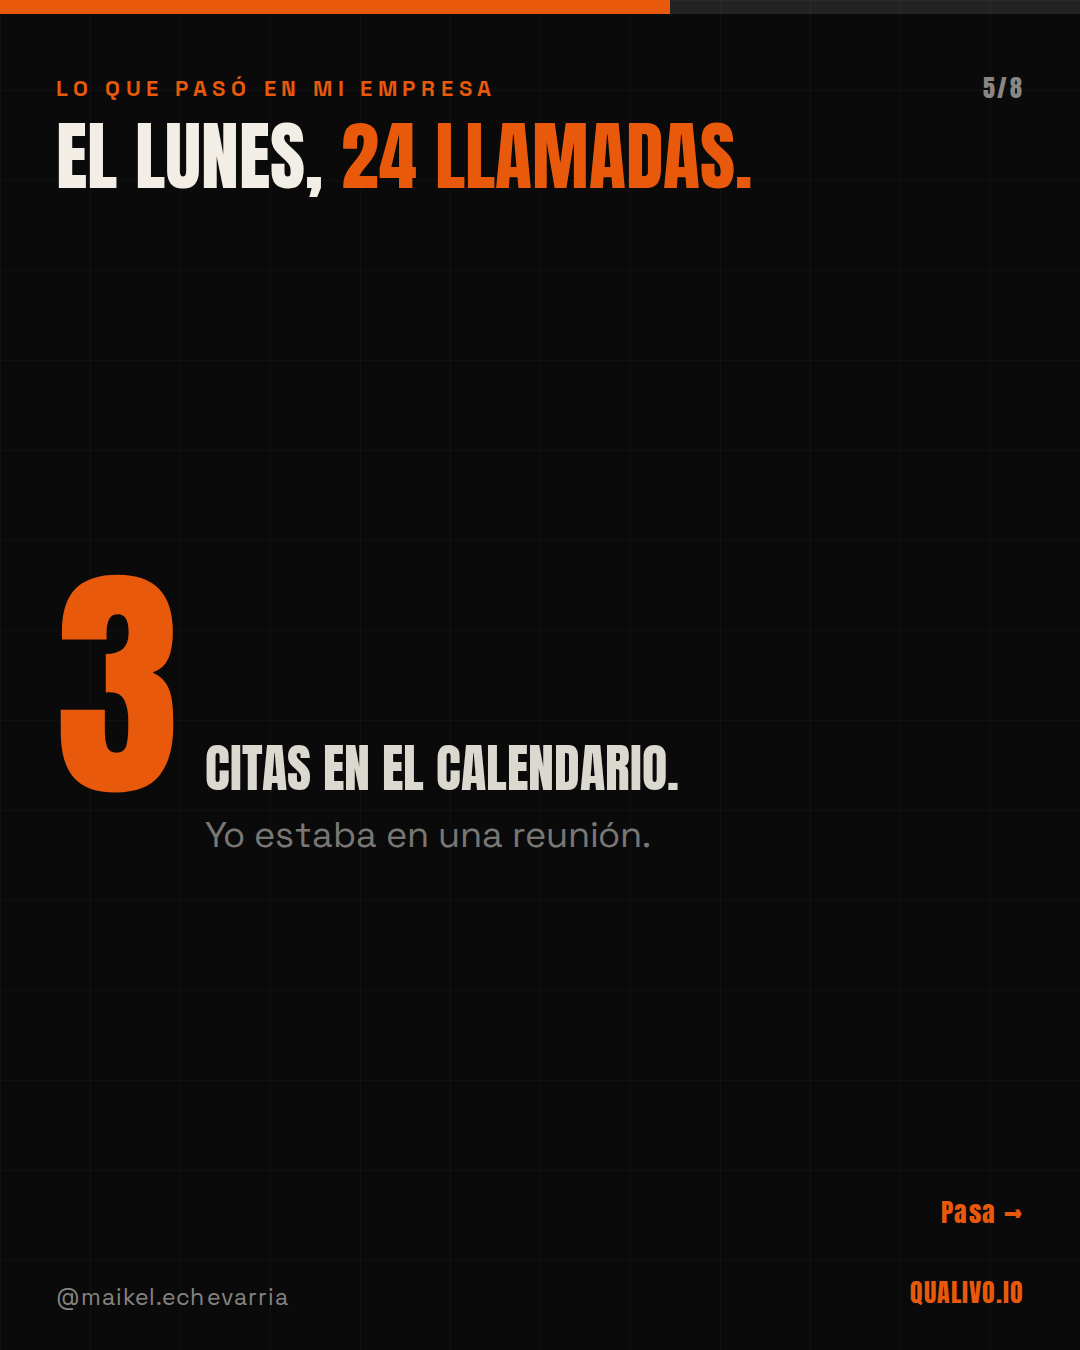
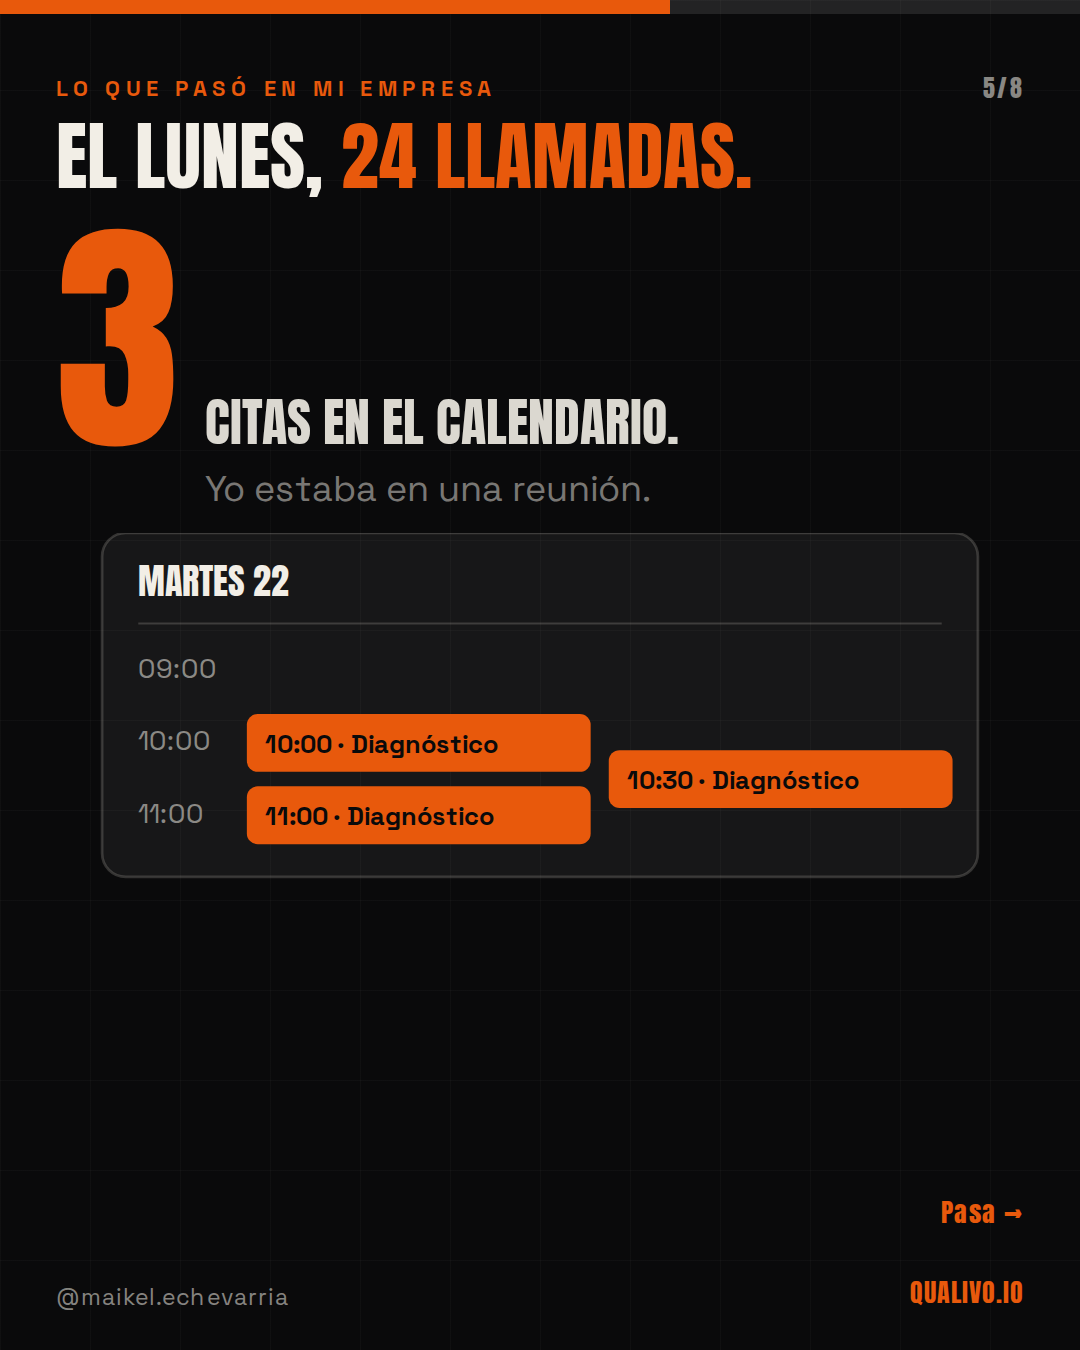
Carrusel del contacto: imagen en las ocho láminas (calendario, iconos, marcador de guardar)
Claude-Session: https://claude.ai/code/session_015zPzMSu62cfqSPYhENKK62

Changed region(s): [[0.0306, 0.4044, 0.8861, 0.6533], [0.0306, 0.1556, 0.6417, 0.3733], [0.0917, 0.6222, 0.1222, 0.6533]]

diff --git a/content/carruseles/2026-09-22-contacto-7x/lamina-5.html b/content/carruseles/2026-09-22-contacto-7x/lamina-5.html
@@ -35,4 +35,12 @@ body{padding:0;background:#000}
 .resumen b{font-family:Anton;font-size:60px;color:#E8590C;line-height:.9}
 </style></head><body><div class="page tinta"><div class="prog"><i style="width:62%"></i></div><div class="n">5/8</div><div class="in"><div class="kick">Lo que pasó en mi empresa</div>
   <div class="h">El lunes, <span class="nar">24 llamadas.</span></div>
-  <div class="vis" style="display:flex;align-items:baseline;gap:30px"><div class="big">3</div><div class="t" style="font-size:52px;line-height:1.1;font-family:Anton;text-transform:uppercase">citas en el calendario.<br><span style="opacity:.55;font-size:36px;font-family:SG;text-transform:none;font-weight:400">Yo estaba en una reunión.</span></div></div></div><div class="next">Pasa →</div><div class="firma">@maikel.echevarria</div><div class="web">QUALIVO.IO</div></div></body></html>
+  <div class="vis" style="display:flex;align-items:baseline;gap:30px;margin-top:30px;margin-bottom:0"><div class="big">3</div><div class="t" style="font-size:52px;line-height:1.1;font-family:Anton;text-transform:uppercase">citas en el calendario.<br><span style="opacity:.55;font-size:36px;font-family:SG;text-transform:none;font-weight:400">Yo estaba en una reunión.</span></div></div><div style="margin-top:24px"><svg width="968" height="380" viewBox="0 0 968 420" style="display:block">
+<rect x="0" y="0" width="968" height="380" rx="26" fill="rgba(242,238,230,.06)" stroke="rgba(242,238,230,.18)" stroke-width="3"/>
+<text x="40" y="70" font-family="Anton" font-size="40" fill="#F2EEE6">MARTES 22</text>
+<line x1="40" y1="100" x2="928" y2="100" stroke="rgba(242,238,230,.18)" stroke-width="2"/>
+<g font-family="SG" font-size="30" fill="rgba(242,238,230,.55)"><text x="40" y="160">09:00</text><text x="40" y="240">10:00</text><text x="40" y="320">11:00</text></g>
+<rect x="160" y="200" width="380" height="64" rx="12" fill="#E8590C"/><text x="180" y="243" font-family="SG" font-size="28" font-weight="700" fill="#0A0A0B">10:00 · Diagnóstico</text>
+<rect x="560" y="240" width="380" height="64" rx="12" fill="#E8590C"/><text x="580" y="283" font-family="SG" font-size="28" font-weight="700" fill="#0A0A0B">10:30 · Diagnóstico</text>
+<rect x="160" y="280" width="380" height="64" rx="12" fill="#E8590C"/><text x="180" y="323" font-family="SG" font-size="28" font-weight="700" fill="#0A0A0B">11:00 · Diagnóstico</text>
+</svg></div></div><div class="next">Pasa →</div><div class="firma">@maikel.echevarria</div><div class="web">QUALIVO.IO</div></div></body></html>

diff --git a/content/carruseles/2026-09-22-contacto-7x/lamina-7.html b/content/carruseles/2026-09-22-contacto-7x/lamina-7.html
@@ -33,8 +33,11 @@ body{padding:0;background:#000}
 .resumen{margin-top:auto;margin-bottom:auto;display:flex;flex-direction:column;gap:26px}
 .resumen div{display:grid;grid-template-columns:90px 1fr;gap:18px;align-items:start;font-size:36px;line-height:1.3}
 .resumen b{font-family:Anton;font-size:60px;color:#E8590C;line-height:.9}
-</style></head><body><div class="page tinta"><div class="prog"><i style="width:88%"></i></div><div class="n">7/8</div><div class="in"><div class="kick">En tres líneas</div>
-  <div class="resumen" style="margin-bottom:0">
+</style></head><body><div class="page tinta"><div class="prog"><i style="width:88%"></i></div><div class="n">7/8</div><div class="in"><div class="kick">En tres líneas</div><div style="display:flex;justify-content:space-around;margin-top:70px">
+<svg width="200" height="200" viewBox="0 0 200 200"><circle cx="100" cy="100" r="80" fill="none" stroke="#E8590C" stroke-width="12"/><line x1="100" y1="100" x2="100" y2="45" stroke="#F2EEE6" stroke-width="12" stroke-linecap="round"/><line x1="100" y1="100" x2="145" y2="100" stroke="#F2EEE6" stroke-width="10" stroke-linecap="round"/></svg>
+<svg width="200" height="200" viewBox="0 0 200 200"><rect x="55" y="20" width="90" height="160" rx="18" fill="none" stroke="#E8590C" stroke-width="12"/><rect x="72" y="60" width="56" height="26" rx="8" fill="#F2EEE6"/><rect x="72" y="96" width="40" height="26" rx="8" fill="#F2EEE6" opacity=".6"/></svg>
+<svg width="200" height="200" viewBox="0 0 200 200"><rect x="30" y="70" width="140" height="60" rx="10" fill="none" stroke="#E8590C" stroke-width="12"/><g stroke="#F2EEE6" stroke-width="8" stroke-linecap="round"><line x1="60" y1="70" x2="60" y2="95"/><line x1="90" y1="70" x2="90" y2="110"/><line x1="120" y1="70" x2="120" y2="95"/><line x1="150" y1="70" x2="150" y2="110"/></g></svg></div>
+  <div class="resumen" style="margin-top:60px;margin-bottom:auto">
     <div><b>1</b><span>Contestar en la primera hora: <b style="font-family:SG;font-size:36px;color:#F2EEE6">7 veces</b> más probable cualificar.</span></div>
     <div><b>2</b><span>Un buen comercial lo hace. Un agente lo hace siempre.</span></div>
     <div><b>3</b><span>Mide el último. Si pasa de una hora, esa es tu fuga.</span></div>
